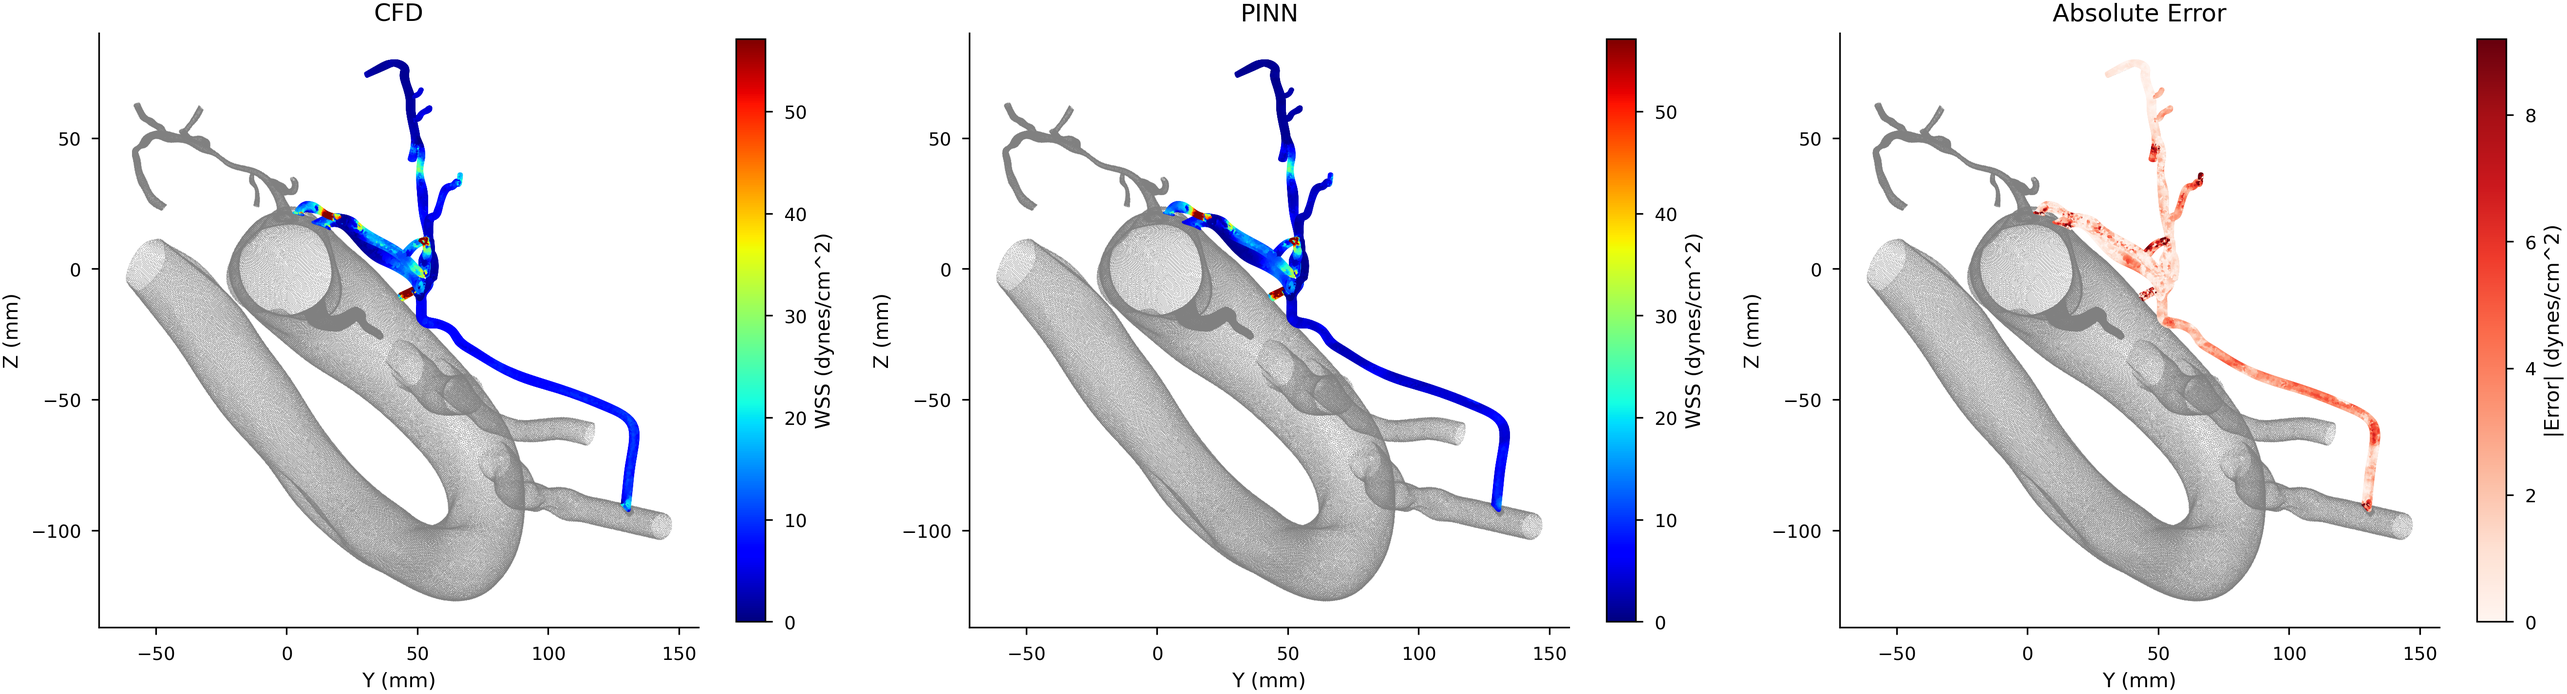
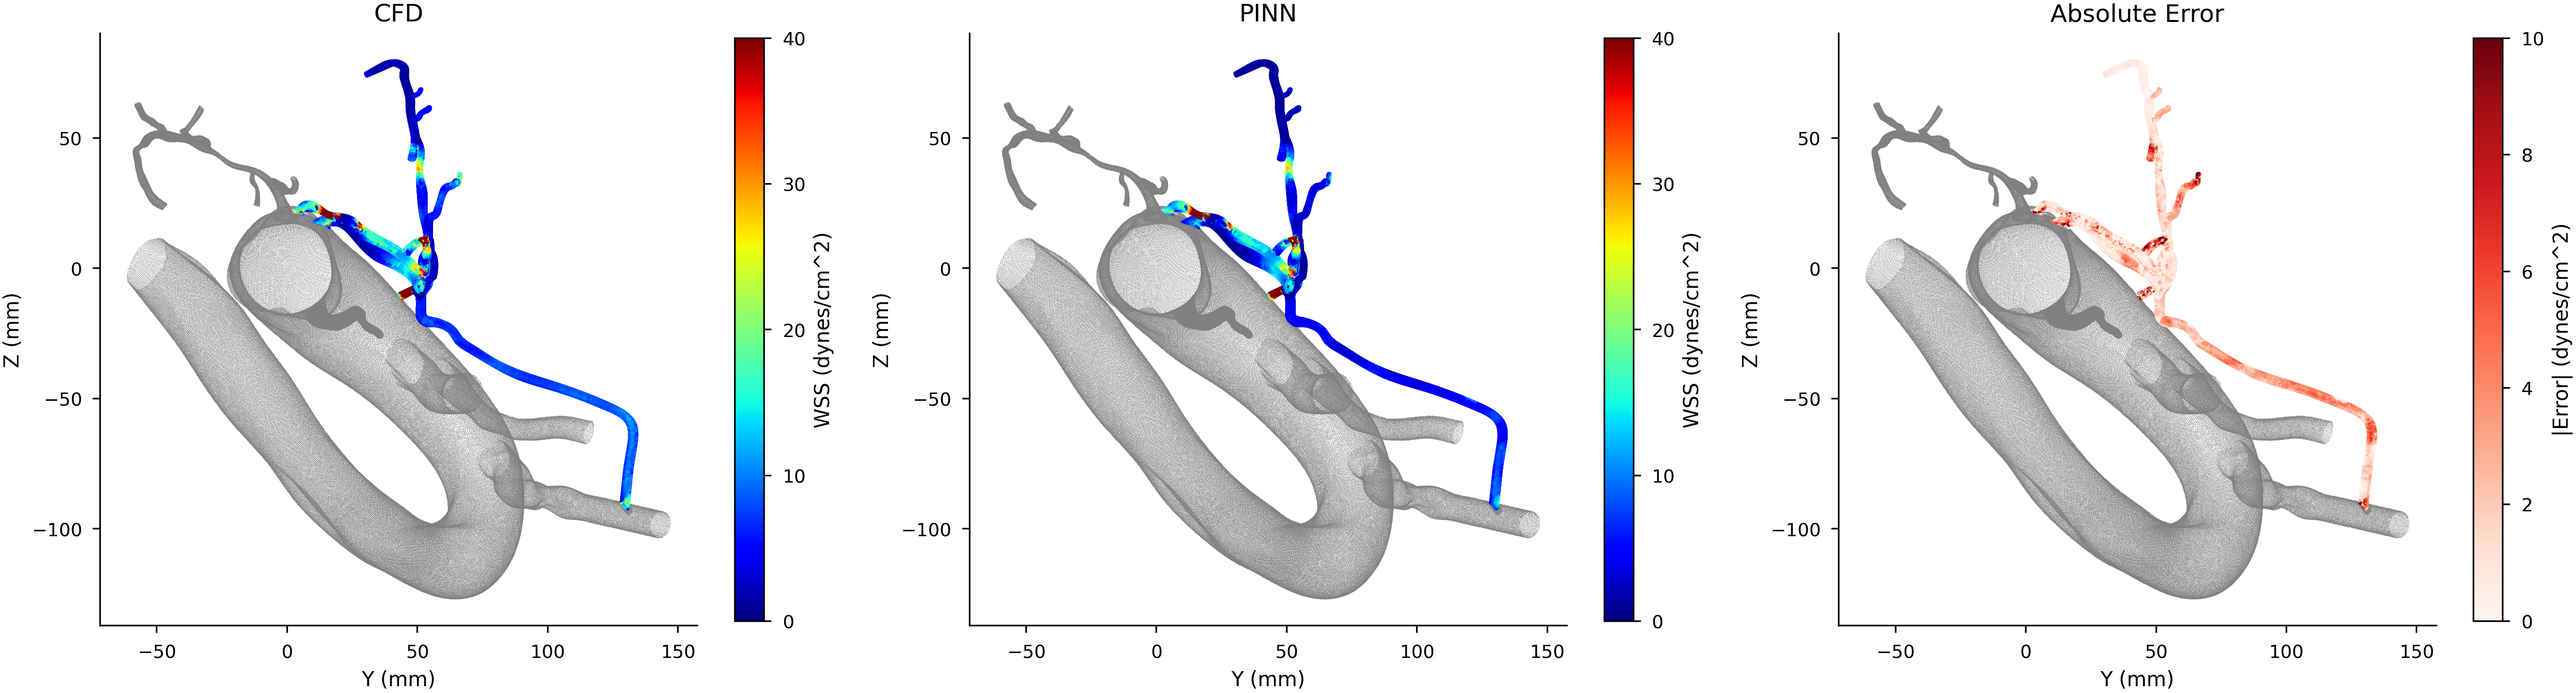
Add timing results for patient H4 in JSON format
This commit introduces a new JSON file containing timing results for patient H4, including training duration, epochs completed, inference times, and loss weights and priorities. This data will aid in analyzing model performance and efficiency.

diff --git a/src/evaluate.py b/src/evaluate.py
@@ -565,29 +565,10 @@ class PINNValidator:
             print(f"\n{'='*60}")
             print(f"Processing Patient: {pid} ({rheo})")
 
-            # Check if model exists; checkpoints are namespaced by rheology so
-            # Newtonian and Carreau-Yasuda runs on the same patient don't collide.
-            model_path = MODELS_PATH / rheo / pid / f'pinn_{pid}_best.pth'
-            if not model_path.exists():
-                print(f"  Model not found: {model_path}")
+            # Load the saved best checkpoint (shared with replot_contours).
+            model, _checkpoint = _load_trained_model(pid, rheo)
+            if model is None:
                 continue
-
-            # Load model checkpoint. weights_only=False is required to load
-            # the embedded config dict; only use on trusted checkpoint files.
-            checkpoint = torch.load(model_path, weights_only=False)
-            cfg = checkpoint['config']
-            hidden_dim = cfg.get('hidden_dim', DEFAULT_HIDDEN_DIM)
-            num_blocks = cfg.get('num_blocks', DEFAULT_NUM_BLOCKS)
-            model = FourierPINN(
-                hidden_dim=hidden_dim,
-                num_blocks=num_blocks,
-                predict_wss=True,
-                num_frequencies=cfg.get('num_frequencies', 64),
-                fourier_scale=cfg.get('fourier_scale', 10.0),
-            )
-
-            model = model.to(DEVICE)
-            model.load_state_dict(checkpoint['model_state_dict'])
 
             # Validate (pass the rheology so the validator loads matching CFD)
             validator = PINNValidator(model, pid, rheology=rheo)
@@ -868,8 +849,65 @@ def run_sensitivity_sweeps(
         _sensitivity_write_csv(rows, metrics_dir / f'sensitivity_seeds{suffix}.csv')
 
 
+def _load_trained_model(pid: str, rheo: str):
+    """Load a saved per-patient best checkpoint.
+
+    Returns ``(model, checkpoint)`` with the weights loaded onto ``DEVICE``,
+    or ``(None, None)`` if no checkpoint exists. Checkpoints are namespaced by
+    rheology so Newtonian and Carreau-Yasuda runs do not collide.
+    """
+    model_path = MODELS_PATH / rheo / pid / f'pinn_{pid}_best.pth'
+    if not model_path.exists():
+        print(f"  Model not found: {model_path}")
+        return None, None
+
+    # weights_only=False is required to load the embedded config dict;
+    # only use on trusted checkpoint files.
+    checkpoint = torch.load(model_path, weights_only=False)
+    cfg = checkpoint['config']
+    model = FourierPINN(
+        hidden_dim=cfg.get('hidden_dim', DEFAULT_HIDDEN_DIM),
+        num_blocks=cfg.get('num_blocks', DEFAULT_NUM_BLOCKS),
+        predict_wss=True,
+        num_frequencies=cfg.get('num_frequencies', 64),
+        fourier_scale=cfg.get('fourier_scale', 10.0),
+    )
+    model = model.to(DEVICE)
+    model.load_state_dict(checkpoint['model_state_dict'])
+    return model, checkpoint
+
+
+def replot_contours(patients: list[str] | None = None,
+                    rheology: str = 'newtonian') -> None:
+    """Re-render full-patient WSS contour figures from saved checkpoints.
+
+    No training is performed: each saved best checkpoint is loaded and the
+    figures under ``reports/figures/<rheology>/<pid>/full_patient/`` are
+    regenerated with the current plotting code (used after changing the
+    contour colour scale). The embedded checkpoint config and any
+    epoch-related keys are printed so the provenance of the loaded weights
+    can be confirmed.
+    """
+    if patients is None:
+        patients = list(PATIENT_DATA.keys())
+
+    _epoch_keys = ('epoch', 'epochs', 'epochs_done', 'n_epochs', 'best_epoch')
+    for pid in patients:
+        print(f"\n{'='*60}\nRe-plotting {pid} ({rheology})")
+        model, checkpoint = _load_trained_model(pid, rheology)
+        if model is None:
+            continue
+        cfg = checkpoint.get('config', {})
+        evidence = {f'ckpt.{k}': checkpoint[k] for k in _epoch_keys
+                    if k in checkpoint}
+        evidence.update({f'cfg.{k}': cfg[k] for k in _epoch_keys if k in cfg})
+        print(f"  checkpoint config: {cfg}")
+        print(f"  epoch evidence: {evidence or 'NONE FOUND - verify manually'}")
+        PINNValidator(model, pid, rheology=rheology).generate_full_patient_plots()
+
+
 def _evaluate_main(argv: list[str] | None = None) -> None:
-    """CLI entry point: ``python -m src.evaluate {holdout|sensitivity} ...``."""
+    """CLI entry point: ``python -m src.evaluate {holdout|sensitivity|replot} ...``."""
     import argparse
     parser = argparse.ArgumentParser(
         description='Run a cross-patient holdout sweep or per-patient '
@@ -900,6 +938,14 @@ def _evaluate_main(argv: list[str] | None = None) -> None:
                    default='all', help='Which sweep to run (default: all).')
     s.add_argument('--metrics-dir', default=None)
 
+    r = sub.add_parser('replot',
+        help='Re-render full-patient WSS contour figures from saved '
+             'checkpoints (no training).')
+    r.add_argument('--patients', nargs='+', default=None,
+                   help='Patients to re-plot (default: all in PATIENT_DATA).')
+    r.add_argument('--rheology', choices=['newtonian', 'carreau_yasuda'],
+                   default='newtonian')
+
     args = parser.parse_args(argv)
     if args.cmd == 'holdout':
         run_holdout_sweep(
@@ -907,13 +953,15 @@ def _evaluate_main(argv: list[str] | None = None) -> None:
             holdout_fraction=args.holdout_fraction, holdout_seed=args.holdout_seed,
             metrics_dir=Path(args.metrics_dir) if args.metrics_dir else None,
         )
-    else:
+    elif args.cmd == 'sensitivity':
         run_sensitivity_sweeps(
             patient=args.patient, rheology=args.rheology,
             epochs_short=args.epochs_short, epochs_full=args.epochs_full,
             sweeps=args.sweeps,
             metrics_dir=Path(args.metrics_dir) if args.metrics_dir else None,
         )
+    else:  # replot
+        replot_contours(patients=args.patients, rheology=args.rheology)
 
 
 if __name__ == '__main__':

diff --git a/src/plots.py b/src/plots.py
@@ -638,9 +638,12 @@ def plot_full_patient_wss(patient_id: str, vessel_data: list,
     # Calculate metrics
     nrmse = compute_normalised_rmse(wss_true, wss_pred)
     
-    # Color scale based on 99th percentile (robust to outliers)
-    vmax = np.percentile(np.concatenate([wss_true, wss_pred]), 99)
-    error_vmax = np.percentile(wss_error, 99)
+    # Fixed colour scale across all patients/rheologies for cross-case
+    # comparability (reviewer request). 40 dynes/cm^2 is the disease
+    # threshold used throughout the paper; the error panel uses a tight
+    # 0-10 dynes/cm^2 range so small residuals remain readable.
+    vmax = 40.0
+    error_vmax = 10.0
     
     for (x_idx, y_idx), plane_name in zip(planes, plane_names):
         fig, axes = plt.subplots(1, 3, figsize=(18, 6))
@@ -662,7 +665,8 @@ def plot_full_patient_wss(patient_id: str, vessel_data: list,
         axes[0].set_xlabel(f'{["X", "Y", "Z"][x_idx]} (mm)')
         axes[0].set_ylabel(f'{["X", "Y", "Z"][y_idx]} (mm)')
         axes[0].set_aspect('equal')
-        plt.colorbar(sc1, ax=axes[0], shrink=0.7, label='WSS (dynes/cm^2)')
+        plt.colorbar(sc1, ax=axes[0], shrink=0.7, label='WSS (dynes/cm^2)',
+                     ticks=[0, 10, 20, 30, 40])
 
         # PINN prediction
         sc2 = axes[1].scatter(x_plot, y_plot, c=wss_pred, cmap='jet', s=0.5, vmin=0, vmax=vmax)
@@ -670,7 +674,8 @@ def plot_full_patient_wss(patient_id: str, vessel_data: list,
         axes[1].set_xlabel(f'{["X", "Y", "Z"][x_idx]} (mm)')
         axes[1].set_ylabel(f'{["X", "Y", "Z"][y_idx]} (mm)')
         axes[1].set_aspect('equal')
-        plt.colorbar(sc2, ax=axes[1], shrink=0.7, label='WSS (dynes/cm^2)')
+        plt.colorbar(sc2, ax=axes[1], shrink=0.7, label='WSS (dynes/cm^2)',
+                     ticks=[0, 10, 20, 30, 40])
 
         # Absolute error
         sc3 = axes[2].scatter(x_plot, y_plot, c=wss_error, cmap='Reds', s=0.5, vmin=0, vmax=error_vmax)
@@ -678,7 +683,8 @@ def plot_full_patient_wss(patient_id: str, vessel_data: list,
         axes[2].set_xlabel(f'{["X", "Y", "Z"][x_idx]} (mm)')
         axes[2].set_ylabel(f'{["X", "Y", "Z"][y_idx]} (mm)')
         axes[2].set_aspect('equal')
-        plt.colorbar(sc3, ax=axes[2], shrink=0.7, label='|Error| (dynes/cm^2)')
+        plt.colorbar(sc3, ax=axes[2], shrink=0.7, label='|Error| (dynes/cm^2)',
+                     ticks=[0, 2, 4, 6, 8, 10])
         
         plt.tight_layout()
         plt.savefig(full_patient_path / f'{patient_id}_full_patient_wss_{plane_name}.png',
